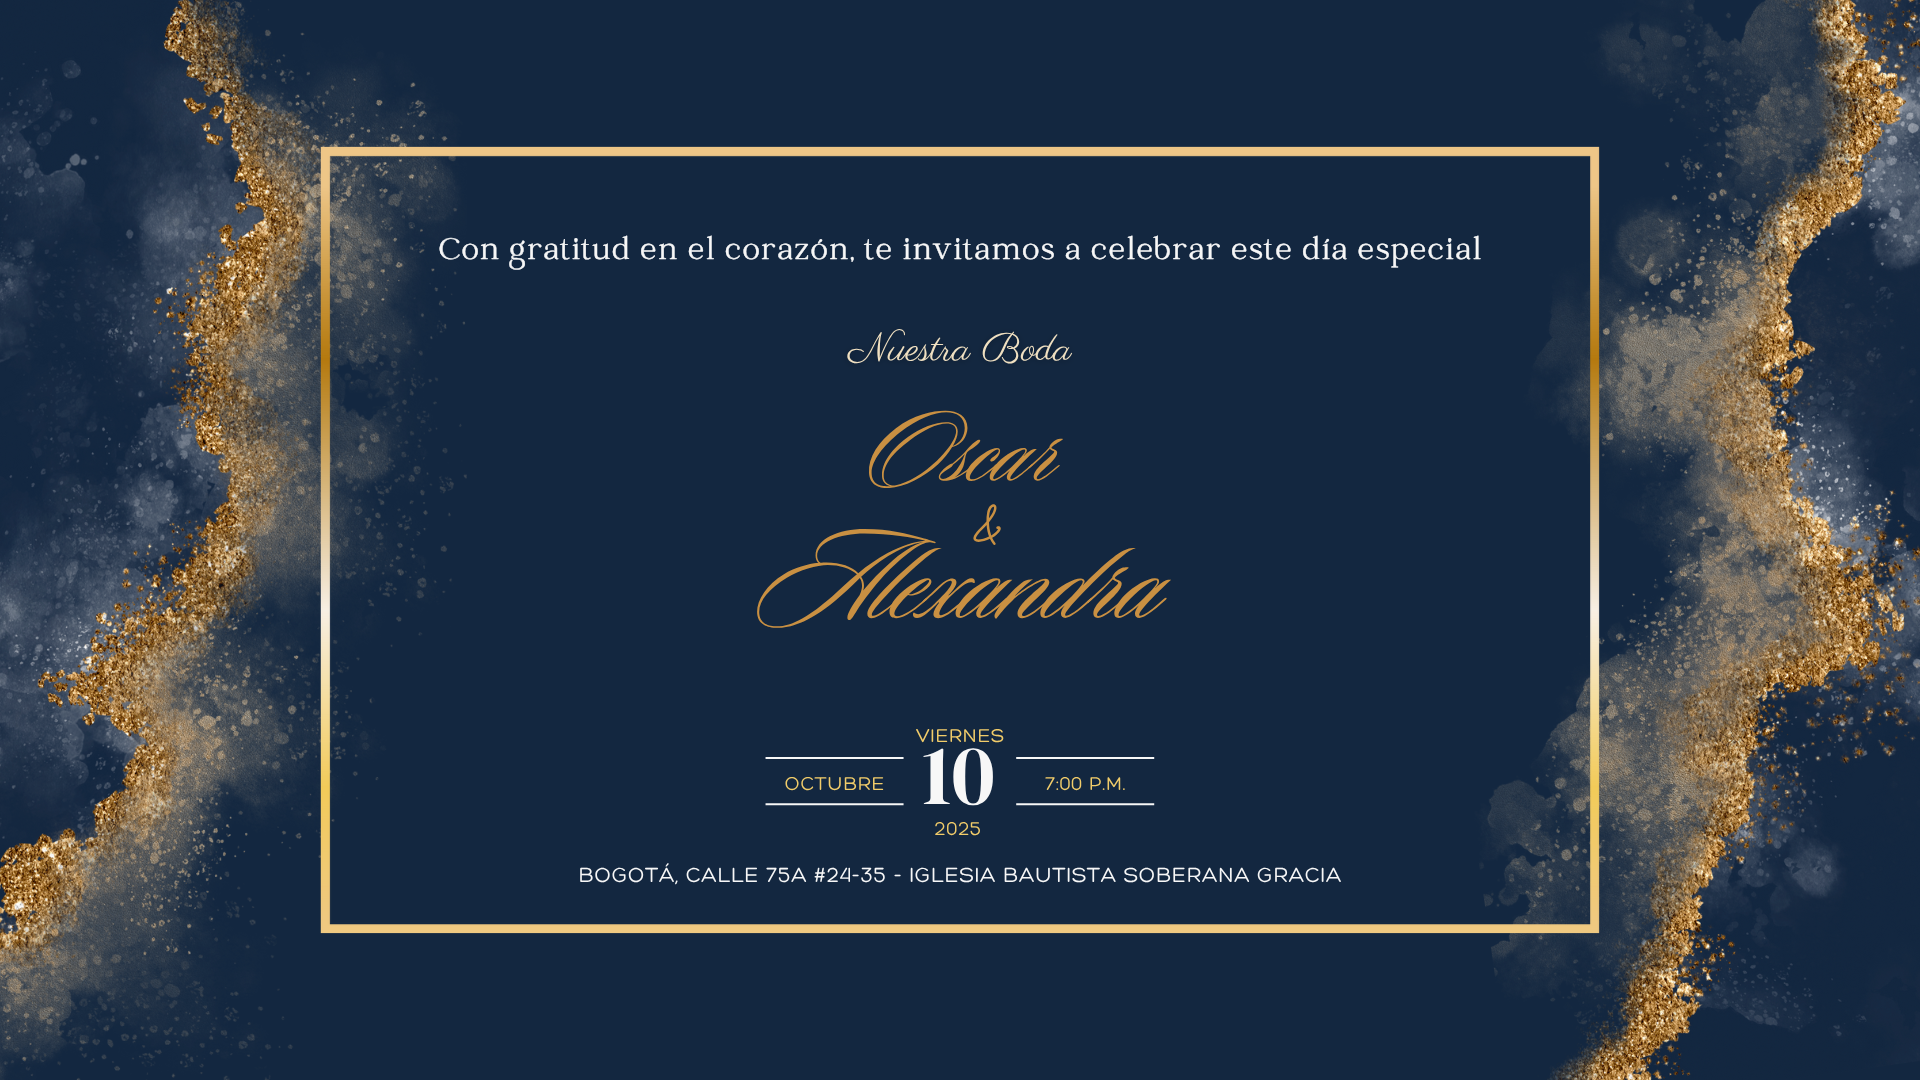
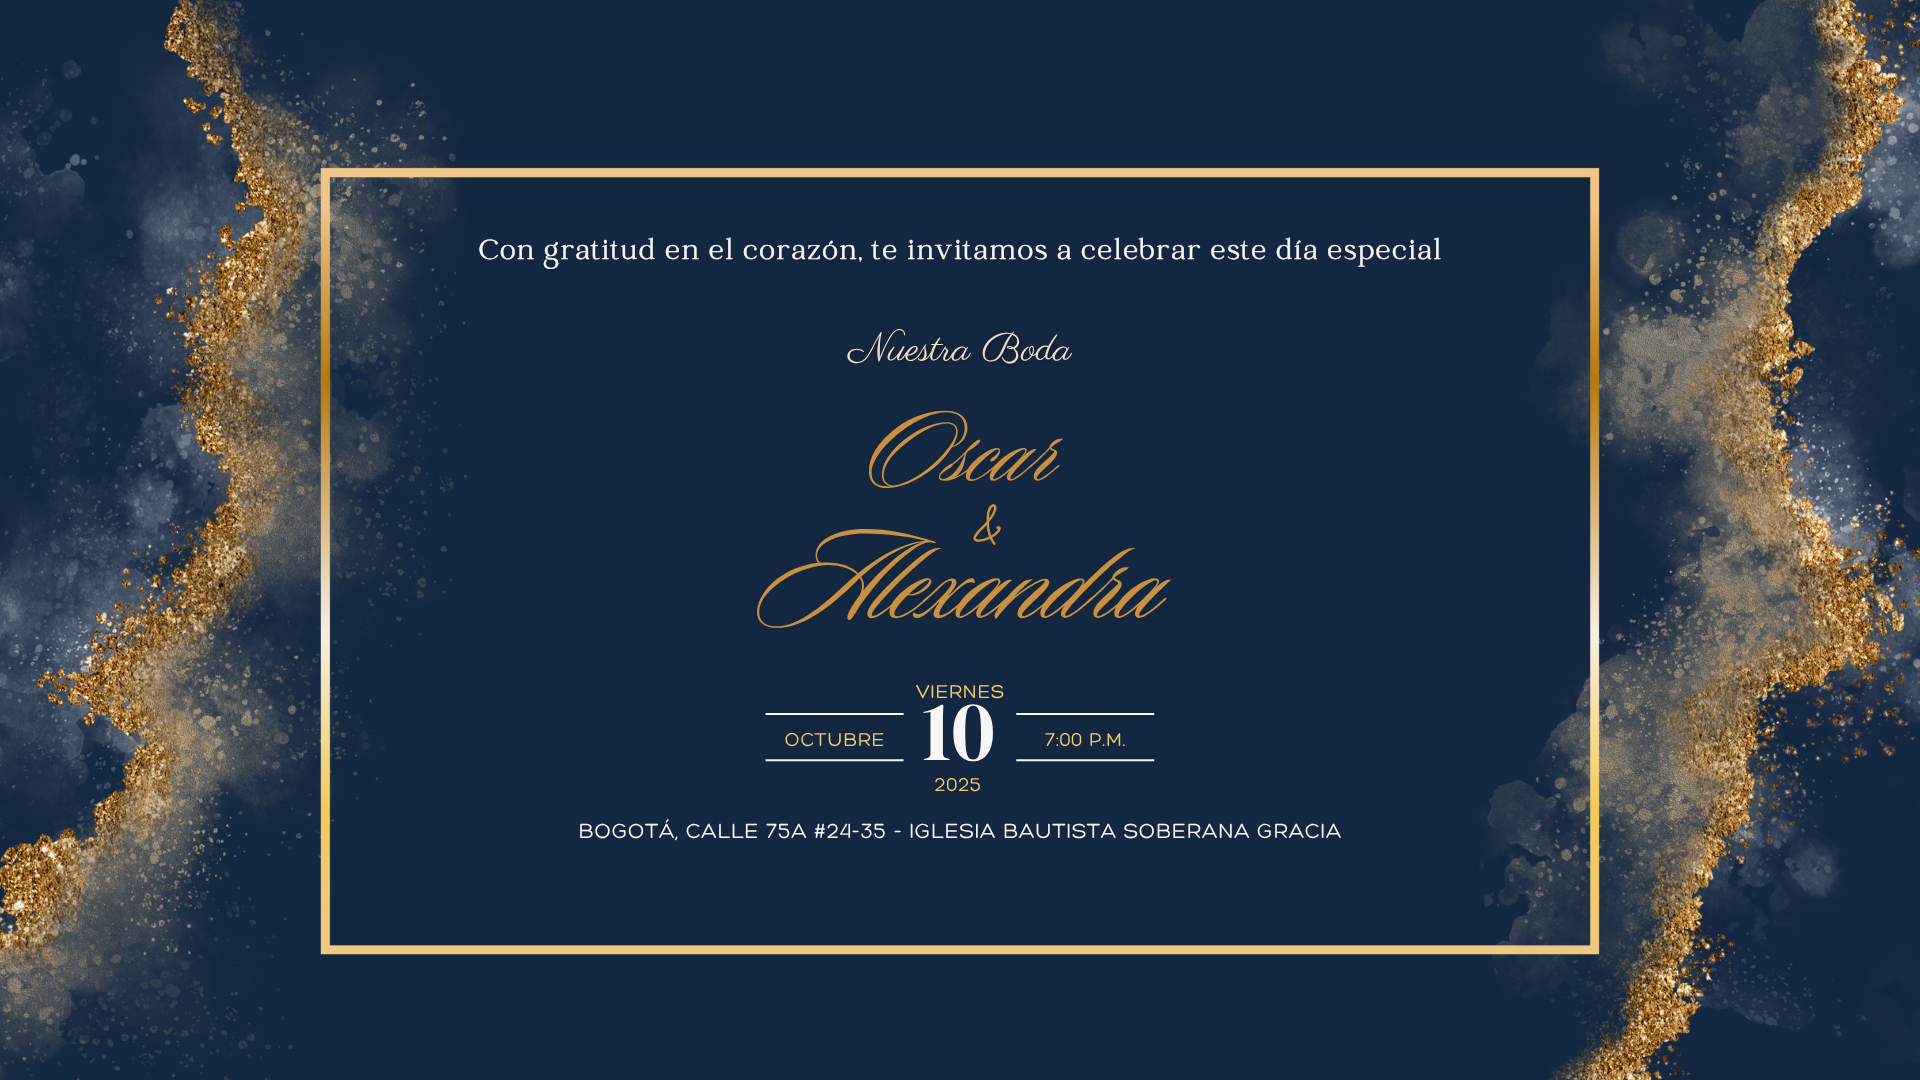
mejoras en home: cambio de imagen de fondo y subir boton clic

diff --git a/wedding-invitation/src/styles/invitation-home.scss b/wedding-invitation/src/styles/invitation-home.scss
@@ -35,7 +35,8 @@ body, html {
     padding: 0.2rem 0.2rem;
     border-radius: 25px;
     cursor: pointer;
-    margin-top: 1rem
+    width: 7rem;
+  
 ;
     box-shadow: 0 4px 10px rgba(0,0,0,0.3);
     transition: transform 0.3s;
@@ -64,7 +65,7 @@ body, html {
     background-image: url('../assets/home_horizontal.png');
 
         button{
-      margin-bottom: 2rem;
+      margin-bottom: 1rem;
     }
   }
 }

diff --git a/wedding-invitation/src/components/InvitationCard.jsx b/wedding-invitation/src/components/InvitationCard.jsx
@@ -108,7 +108,7 @@ function InvitationCard() {
   return (
     <div className="envelope" style={{ cursor: 'pointer' }}>
       <button onClick={handleClick} role="button" tabIndex={0}>
-        Click Aquí
+        Clic Aquí
       </button>
     </div>
   )
